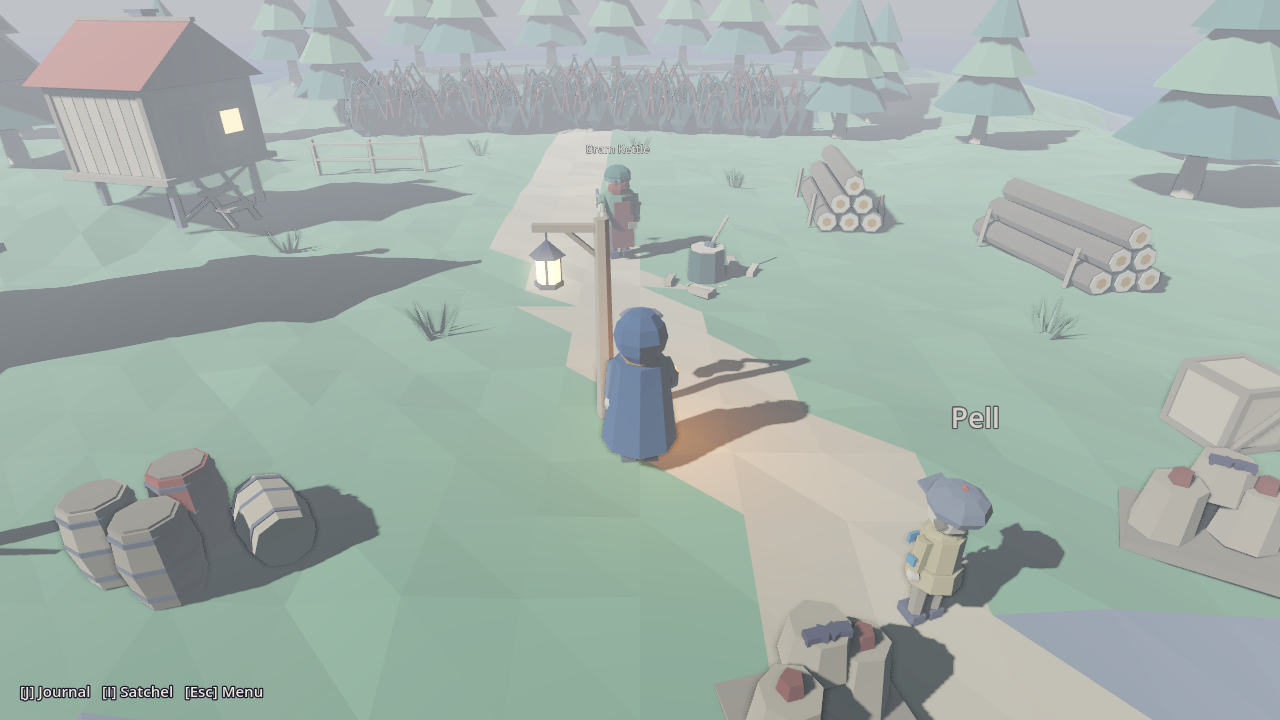
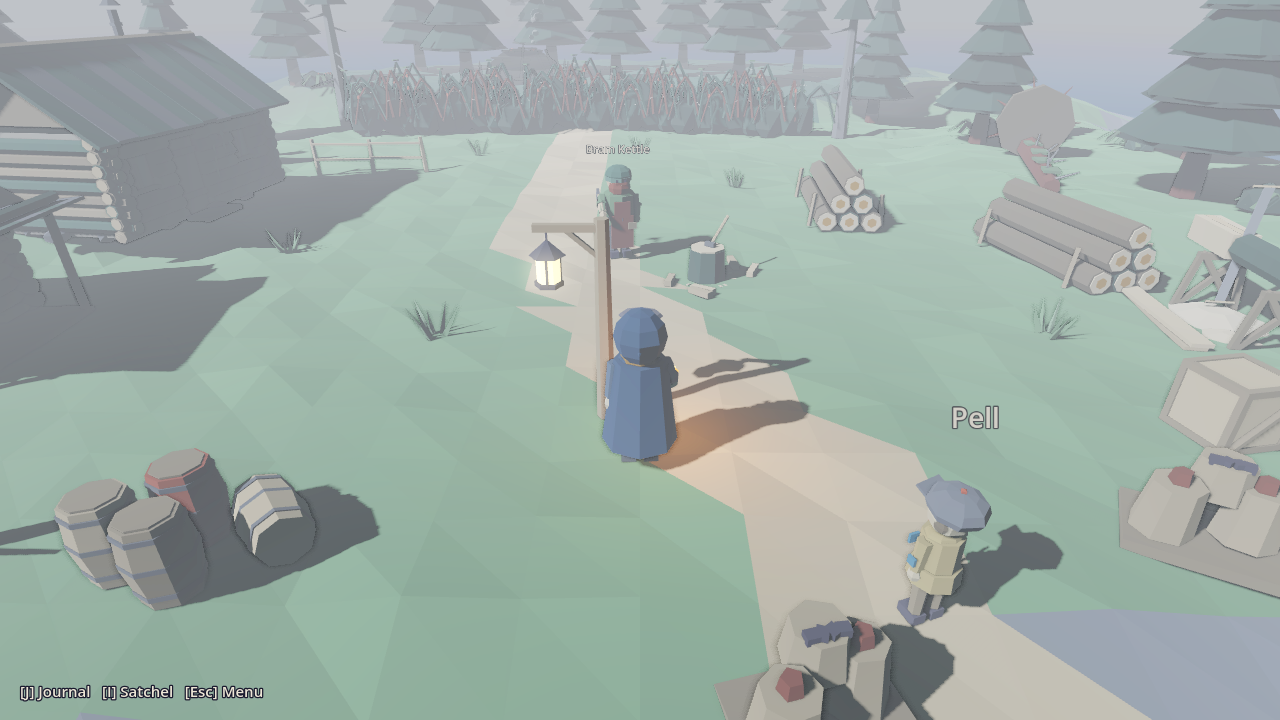
docs: devlog day 18, lore (camp look, the clamp past the wall), roadmap, tech notes, screenshots and checkpoint for Thornwold's look
Claude-Session: https://claude.ai/code/session_01TZgJamtkXQQUTqrpNoy3wM

diff --git a/docs/ROADMAP.md b/docs/ROADMAP.md
@@ -120,6 +120,13 @@ with a meaningful burn choice → consequences visible in the village.
       `--scenario=<id>`, pause menu Chapter select (debug builds), `tools/checkpoints.sh` →
       `docs/CHECKPOINTS.md` gallery. **Every content session adds a checkpoint for what it built.**
 
+- [x] [A] **Thornwold's look** (Day 18): Blender log **bunkhouse** and **tally-house**
+      (saddle-notched logs, bark-slab roofs, stove pipes, lit windows, Bram's tally board, a
+      lean-to porch), **saw trestle**, **charcoal clamp** (smouldering past the bramble wall),
+      **pine_dark** for every Thornwold pine, Greyed **pine_snag**s at the wall's ends,
+      **underbrush** and **fallen trunks**. Engine: prop **`smoke`** (CPU particle columns from
+      model-space vents). Thornwold borrows nothing from Saltmarrow any more.
+
 ### Art track (owner request, 2026-09-26)
 The owner wants the look upgraded: characters and settings read as generic greybox.
 **Cadence rule:** until the Vertical Slice looks shippable, at least every other session
@@ -129,42 +136,39 @@ palette colors, strong silhouettes); every asset from a re-runnable `tools/blend
 each .glb < 5 MB.
 
 ### Next up
-1. [A] **Art, due Day 18 — Thornwold's look**: the camp still borrows Saltmarrow's stilt and
-   tall houses — a log **bunkhouse** and **tally-house** (round logs, bark roof, a stove pipe),
-   a **saw-pit** / trestle, a **charcoal clamp** (smoking earth mound) for the woods edge,
-   denser underbrush and fallen trunks; a darker pine variant so Thornwold's pines differ from
-   Saltmarrow's. Screenshot before/after (`2026-10-02-crossing-*.png` are the "before").
-2. [S] **Settings** in the pause menu: volume buses, text size (`UiTheme.set_text_scale`),
+1. [S] **Settings** in the pause menu: volume buses, text size (`UiTheme.set_text_scale`),
    camera sensitivity/invert, key rebinding (InputSetup is the hook); persisted to
    `user://settings.cfg` (not in saves).
-3. [C] **Into the woods** (next content, by Day 21): what lies past the bramble wall — the
+2. [C] **Into the woods** (next content, by Day 21): what lies past the bramble wall — the
    shifting paths as a mechanic (paths that fade/re-route in the Greying; trust and
-   misdirection), the charcoal folk (who brings the sacks?), the lantern on the ridge, the
+   misdirection), the charcoal folk (who brings the sacks? who tends the clamp smoking past
+   the wall since Day 18?), the lantern on the ridge, the
    beacon-keeper; a Thornwold Remnant or two toward the next burn. Pay off Pell's tally stick
    and the ember leaning toward the thorns. Small Act I threads still open: Aldous noticing you
    read his sign; Tam and the broken lofts; Pell's pouch ("something lost, something GOOD")
-   could take a Thornwold find.
-4. [S] **Title screen**: New game / Continue (latest slot) / Load / Settings / Quit; then
+   could take a Thornwold find. Make Bram's tally board (tally-house door) an inspectable that
+   reads the camp's counts — and the short bottom row.
+3. [S] **Title screen**: New game / Continue (latest slot) / Load / Settings / Quit; then
    "Return to title" on the Act I end card and in the pause menu.
-5. [P] **Color grading pass on a Vulkan machine** — sandbox screenshots (Compatibility
+4. [P] **Color grading pass on a Vulkan machine** — sandbox screenshots (Compatibility
    renderer) are washed out; verify palette reads correctly in Forward+ (incl. beacon glow,
    the Day 12 glow/contrast/saturation grading, SSAO strength, the water colours).
    Needs the owner to run the game locally and report back.
-6. [S] **The Greying v2** (fold pieces into later sessions): fog pockets/banks on
+5. [S] **The Greying v2** (fold pieces into later sessions): fog pockets/banks on
    Saltmarrow and Shingle Point too (offshore, leaning back after the burn); the ember light
    pushing fog back in a small radius around the player; paths that fade in thick fog
    (LORE: "a road forgets where it goes" — now Thornwold's theme, see item 3); a Hushed NPC
    drifting in a pocket; audio cue (muffling low-pass + heartbeat-ish ember crackle) with the
    audio item; colourblind-safe meter check with the accessibility item. Consider a story flag
    when the player is first turned back (an NPC remarks on it).
-7. [S] Audio hooks: bus layout, footsteps, ambient loop per region, dialogue "voice blips"
+6. [S] Audio hooks: bus layout, footsteps, ambient loop per region, dialogue "voice blips"
     per NPC (data field). Placeholder sounds generated procedurally.
-8. [A] Saltmarrow dressing follow-ups: paint contrast in the Compatibility renderer (walkway
+7. [A] Saltmarrow dressing follow-ups: paint contrast in the Compatibility renderer (walkway
    vs. slate); Saltmarrow's two greyed net-lofts by the boardwalk gate could take the broken
    variant (or a half-mended one after the burn); Aldous still stands — a bench by the Wrens'
    steps (LORE says he sits on one) wants a seated idle like Hesk's; a lit-window variant for
    nights once day/night exists.
-9. [S] Interaction polish: camera framing during dialogue; inspectable glint; fade the
+8. [S] Interaction polish: camera framing during dialogue; inspectable glint; fade the
    player model when the camera is pushed in close behind them (a wall at their back).
    (Facing while talking landed Day 14; the key hint hides in dialogue since Day 15.)
 
@@ -213,7 +217,11 @@ each .glb < 5 MB.
   region spawns the player inside a pocket via a save, they go to the default spawn
   (validator keeps spawns clear, but saved positions aren't checked).
 - Last content session: Day 17 (the crossing, Thornwold Landing); next content due by Day 21.
-- Last art session: Day 16 (Wrens' house, broken lofts, wading foam); art is due **next run (Day 18)** — Thornwold's own buildings.
+- Last art session: Day 18 (Thornwold's look); next art due by Day 20 (cadence: every other session).
+- Prop `smoke` is CPU particles (pauses with the tree under the menu): fine at a few vents;
+  if a region ever wants dozens, use GPUParticles3D on Forward+ and keep CPU for Compatibility.
+- Thornwold's log buildings use one box collider each (the porch of the tally-house is
+  walk-through under its roof; its posts have no collider).
 - Camera blockers are mesh-bounds boxes: a tree's blocker is its whole canopy box, so the
   camera pulls in a little early beside pines. Fine for now; per-part shapes if it bothers.
 - Pause pauses the whole tree; anything that must run under the menu (HUD, smoke test) sets

diff --git a/docs/DEVLOG.md b/docs/DEVLOG.md
@@ -2,6 +2,63 @@
 
 Newest entries first. Each entry: what was done, decisions & why, problems, next steps.
 
+## 2026-10-02 21:00 UTC — Day 18: Thornwold's own look (art track)
+
+**Did**
+- Tooling: `tools/setup.sh` worked first try (Godot 4.7.2 + bpy 5.2.2). Baseline green (119 tests).
+- **Art (due today under the cadence rule; last art was Day 16):** ROADMAP [A] #1, Thornwold's
+  look. Until now the camp borrowed Saltmarrow's stilt and tall houses and pines.
+  - `build_thornwold.py` gains eight models: **`bunkhouse`** (4.4 × 3.0 m saddle-notched round-log
+    cabin with interlocking corners and pale cut ends, clay chinking, bark-slab gable roof,
+    tin stove pipe, two lit windows with shutters, axe and bucksaw on the wall, woodpile
+    under the eaves, footing stones); **`tally_house`** (smaller log hut with a lean-to porch
+    and **Bram's tally board**: four rows of notched sticks on pegs, the bottom row only three);
+    **`saw_pit`** (X-legged trestles, a log half sawn into planks, the pit saw left in the
+    kerf, sawdust); **`charcoal_clamp`** (turfed earth dome, glowing vents, stake ring, ladder,
+    rake, finished charcoal); **`pine_dark`** (narrower, five drooping deep-green tiers);
+    **`pine_snag`** (a Greyed pine: silvered, bare spars, one last tier); **`underbrush`**
+    (bush lumps, fern fronds, berries); **`fallen_trunk`** (mossy, branch stubs, root plate).
+    Shared helpers `_log_walls` (with door/window cut-outs), `_bark_roof`, `_stove_pipe`.
+  - **Engine: prop `smoke`** — `[[x, y, z], ...]` model-space vents, each a `CPUParticles3D`
+    column of low-poly puffs that swell, drift and fade (`PropSmoke`, validated). The stoves
+    smoke, and so does the clamp.
+  - **Thornwold re-dressed:** the bunkhouse and tally-house replace the borrowed houses (same
+    spots); all 20 pines are `pine_dark` except two `pine_snag`s at the wall's ends; a saw
+    trestle by the log piles; two fallen trunks and twelve underbrush clumps under the pines;
+    and **a charcoal clamp smoking just past the bramble wall**, in the Greying where nobody
+    from the camp can go. Its smoke shows over the thorns from the camp. Canon noted in LORE.
+- **Tests:** `test_thornwold_kit.gd` (6: kit placed, nothing borrowed from Saltmarrow, smoke
+  vents on their models, one emitter per vent, validator, clamp past the wall). Story checkpoint
+  `thornwold` re-shot. 125 tests + smoke + launch pass.
+
+Screenshots (`docs/screenshots/2026-10-02-thornwold-*.png`), same cameras before/after:
+`before-camp` vs `after-camp`, `before-buildings` vs `after-buildings`, `before-woods` vs
+`after-woods` (the clamp's smoke over the wall); plus `after-tally`, `after-clamp`, `after-saw`.
+
+**Decisions**
+- **The clamp goes past the wall, not in the camp.** The camp can't see who brings the sacks;
+  a clamp tended by nobody-you-can-reach, smoking in the Greying, makes that hook visible
+  without a line of dialogue, and gives *Into the woods* a landmark to walk toward.
+- **Smoke as CPU particles** rather than static puffs (which read as floating balls in the
+  first try) or a shader: works in both renderers, few draw calls, no new assets.
+- **Log colours lifted** after the first lineup: the first pass (pine/coal at -0.6) read
+  black-and-red striped under Thornwold's cold light; logs are now driftwood/pine mid-shades
+  with pale chinking, roofs pine/slate, no coal red on buildings.
+- Kept each building to one box collider, like the village houses.
+
+**Problems / notes**
+- First export failed the kit test: 22 materials per cabin (> 16 mesh nodes after merge); folded
+  the shades into a shared set. The fallen trunk's root plate dipped below its origin; raised.
+- The tally board isn't inspectable yet (noted under *Into the woods*).
+- The tally-house front sits in its own shadow from most camp angles under Thornwold's
+  low sun; fine, but the tally board is hard to see from the path.
+
+**Next run should**
+1. **Systems:** Settings in the pause menu (volumes, text size, camera sensitivity/invert,
+   rebinding) persisted to `user://settings.cfg`.
+2. Content by Day 21: *Into the woods* — past the bramble wall, toward the smoking clamp.
+3. Art next due by Day 20.
+
 ## 2026-10-02 17:30 UTC — Owner request: story checkpoints (see progress without playing)
 
 **Did**

diff --git a/docs/TECH.md b/docs/TECH.md
@@ -36,7 +36,7 @@ $GODOT --headless --path . -s res://tools/debug/terrain_map.gd [-- <region>]  # 
 .tools/bin/blender-py tools/blender/build_characters.py [oda …]  # rebuild characters (assets/models/characters/)
 .tools/bin/blender-py tools/blender/build_dressing.py [dock wreck …]  # rebuild the dressing kit (assets/models/dressing/)
 .tools/bin/blender-py tools/blender/build_village.py [house_stilt house_wren net_loft_broken …]  # village buildings (same kit dir)
-.tools/bin/blender-py tools/blender/build_thornwold.py [bramble log_pile stump charcoal_sacks]  # Thornwold kit (same kit dir)
+.tools/bin/blender-py tools/blender/build_thornwold.py [bramble bunkhouse tally_house saw_pit charcoal_clamp pine_dark …]  # Thornwold kit (same kit dir)
 xvfb-run -a $GODOT --rendering-driver opengl3 --path . res://scenes/debug/character_lineup.tscn \
     -- --screenshot=/abs/out.png [--closeup] [--mood=gulls_head]  # art review: every character side by side
 xvfb-run -a $GODOT --rendering-driver opengl3 --path . res://scenes/debug/prop_lineup.tscn \
@@ -197,6 +197,13 @@ Colors are palette names from `PropFactory.PALETTE` (= GAME_DESIGN palette) or `
   rings, `FloatingProp.wading_mesh`). At build time a ring is kept only if the ground under
   it is below `water_level`, so a house straddling the tide line gets rings on its wet legs
   only. Used by the dock and the houses in Saltmarrow's shallows.
+- `"smoke": [[x, y, z], ...]` (model props) — smoke vents in model space (before `scale`):
+  each gets a `CPUParticles3D` column of low-poly puffs that swell, drift downwind and fade
+  (`PropSmoke`; preprocessed so it is already standing at load; CPU particles so the
+  Compatibility renderer shows it). Vents: `bunkhouse` (1.3, 3.95, -0.6), `tally_house`
+  (-0.8, 3.25, -0.5), `charcoal_clamp` crown at y 0.95, radius 0.65 (four vents at
+  0.4 + k·90° from +X, Godot z = -Blender y). `test_thornwold_kit.gd` checks vents sit on
+  their model. Keep it to a few vents per region (12–16 particles each).
 
 ### Arrival events & act ends (Day 13)
 - **Region `events`** happen on arriving in a region: after `main.load_region`, the first
@@ -447,6 +454,9 @@ WorldState.to_dict()}`. Bump `SaveSystem.SAVE_VERSION` on breaking changes and a
 - `tests/test_wrens_and_lofts.gd` — houses planked on every side, the retired stilt house,
   the Wrens' house and its ember sign per confession (+ the `wrens_door` inspectable), Gull's
   Head's broken lofts (Hesk's stays whole), `wading` foam only over the sea, validator checks.
+- `tests/test_thornwold_kit.gd` — Thornwold's own kit is placed (no Saltmarrow houses or pines
+  left there), smoke vents on their models, one emitter per vent, validator checks, the clamp
+  past the wall.
 - `tests/test_ferry.gd` — the ferry's arrival: the horn event fires once and only away from the
   harbor, Pell/Oda/ferry/bundle placement, Oda weighing the deed per burn, passage and the Act I
   recap, a promised Pell needing Mara's leave (both answers), Pell's dock ask and the pouch,

diff --git a/docs/LORE.md b/docs/LORE.md
@@ -253,6 +253,15 @@ charcoal-burners and a Tidewright lumber camp. Theme: trust and misdirection.
   - **The charcoal folk** live in the woods in the smoke of their clamps — "not Tidewright, not
     anybody's" — trade charcoal for salt and say the woods like them. Their sacks still turn
     up on the jetty every few days, full and tied; **nobody sees who brings them** (hook).
+  - **The camp's look (Day 18):** the bunkhouse and tally-house are saddle-notched log cabins
+    roofed in bark slabs, stoves going day and night. Bram's **tally board** hangs by the
+    tally-house door — rows of notched sticks on pegs, one count per thing that leaves on the
+    ferry; the bottom row stops short at three. A saw trestle stands by the log piles with a
+    log half sawn into planks. Near the wall's ends the pines are **Greying where they stand**
+    — silvered, needles gone, one ragged green tier left (the woods past the wall are going
+    grey from the inside). **A charcoal clamp smoulders just past the bramble wall**, in the
+    Greying where nobody from the camp can go: someone is tending it (hook — the charcoal
+    folk, or whoever brings the sacks; pay off in *Into the woods*).
   - If Pell crossed, Bram has them sorting nails ("kids who sort nails don't wander into
     brambles"); Pell found a cutter's **tally stick** by the sacks whose last notch is only half
     cut (hook, not an item yet).

diff --git a/docs/CHECKPOINTS.md b/docs/CHECKPOINTS.md
@@ -1,7 +1,7 @@
 # Emberwake — Story checkpoints
 
 Where the game is up to, one screenshot per story checkpoint. Generated by
-`tools/checkpoints.sh` from `data/scenarios.json` (at commit `92a3e82`, 2026-10-02 17:29 UTC).
+`tools/checkpoints.sh` from `data/scenarios.json` (at commit `5b921f7`, 2026-10-02 21:29 UTC).
 
 Play from any of them: `godot --path . -- --scenario=<id>`, or in a debug build open the
 pause menu (Esc) → **Chapter select (dev)**. `--scenario=list` prints them all.
